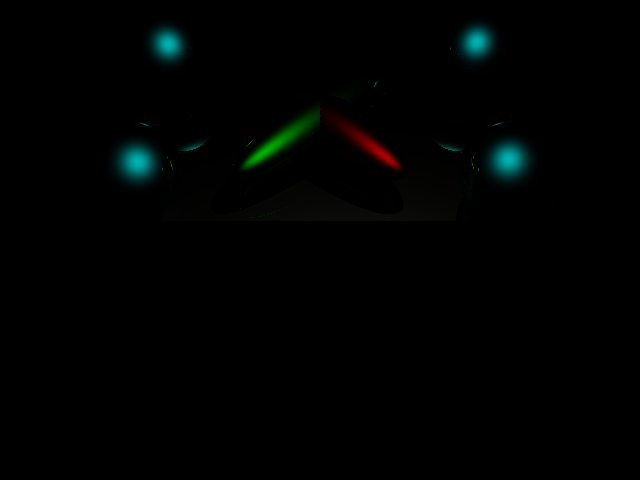
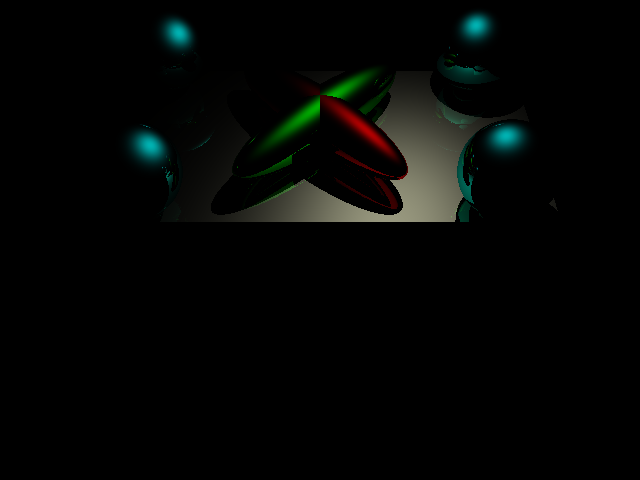
almost fixed reflections/specular stuff, but not really

Changed region(s): [[0.3438, 0.0312, 0.8438, 0.4688], [0.1562, 0.25, 0.3125, 0.4062], [0.2188, 0.0312, 0.3125, 0.1562]]

diff --git a/RayTracer.cpp b/RayTracer.cpp
@@ -50,7 +50,7 @@ void RayTracer::trace(Ray r, int lvl, Color& outputColor){
     //vec3 reflectedDir = 2*glm::dot(norm, glm::normalize(r.getDir())) * norm;
     //reflectedDir = glm::normalize(r.getDir() - reflectedDir);
 
-    vec3 reflectedDir = glm::reflect(glm::normalize(r.getDir()), glm::normalize(norm));
+    vec3 reflectedDir = glm::normalize(glm::reflect(glm::normalize(r.getDir()), glm::normalize(norm)));
 
 //cout << "magic5" << endl;
 
@@ -85,7 +85,8 @@ void RayTracer::trace(Ray r, int lvl, Color& outputColor){
     result += currShape->getEmission().getColors() + currShape->getAmbient().getColors();
 
     Ray reflect = Ray();
-    vec3 offsetInters = intersect.getPosition().getPoint() + 0.0001f * reflectedDir;
+    //cout << intersect.getPosition().getPoint().y << intersect.getPosition().getPoint().y << intersect.getPosition().getPoint().z << endl << endl;
+    vec3 offsetInters = intersect.getPosition().getPoint() + 0.001f * reflectedDir;
     reflect.setPoint(Point(offsetInters));
     reflect.setDir(Direction(reflectedDir));
     Color reflectedCol = Color(0, 0, 0);

diff --git a/Sphere.h b/Sphere.h
@@ -74,6 +74,8 @@ class Sphere : public Shape{
 
     vec3 intersectPoint = transfRay.getPos() + t*transfRay.getDir();
 
+    //std::cout << "obj space intersection: " << intersectPoint.x << intersectPoint.y << intersectPoint.z << std::endl;
+
     vec3 normal = glm::normalize(intersectPoint - centerPoint);
 
     //std::cout << "norm " << normal.x << normal.y << normal.z << std::endl;
@@ -86,6 +88,8 @@ class Sphere : public Shape{
     intersectPoint = vec3(matrix * vec4(intersectPoint, 1.0));
 
     float worldt = (intersectPoint - r.getPos()).x / r.getDir().x;
+
+    //std::cout << "world space intersection: " << intersectPoint.x << intersectPoint.y << intersectPoint.z << std::endl;
     
    
     // if INTERSECTPOINT is within triangle, then these cross products should

diff --git a/Shape.cpp b/Shape.cpp
@@ -38,9 +38,9 @@ void Shape::intersectColor(Intersect intersection, Light* currLight, vec3 cam, v
 
   vec3 lightDir = currLight->getDirection(intersection.getPosition());
   vec3 viewDir = cam - intersection.getPosition().getPoint();
-  vec3 halfDir = glm::normalize(lightDir + viewDir);
+  vec3 halfDir = glm::normalize(glm::normalize(lightDir) + glm::normalize(viewDir));
 
-  vec3 norm = intersection.getNormal().getDir();
+  vec3 norm = glm::normalize(intersection.getNormal().getDir());
 
   float lambTerm = max(glm::dot(norm, lightDir), 0.0f);
   vec3 diffcontr = currLightColor * lambTerm * diffuse.getColors();

diff --git a/Triangle.h b/Triangle.h
@@ -41,6 +41,8 @@ class Triangle : public Shape{
     if ( (glm::dot(glm::cross(b - a, intersectPoint - a), normal) >= 0.0) &&
 	 (glm::dot(glm::cross(c - b, intersectPoint - b), normal) >= 0.0) &&
 	 (glm::dot(glm::cross(a - c, intersectPoint - c), normal) >= 0.0) ) {
+
+    //cout << "tri tri world intersect: " << intersectPoint.x << intersectPoint.y << intersectPoint.z << endl;
 //cout << "allo" << endl;
       return Intersect(Point(intersectPoint), Direction(normal), (Shape *)this, t);
     } else {

diff --git a/Intersect.h b/Intersect.h
@@ -36,8 +36,8 @@ class Intersect{
     t = 99999.9;
   }
   Intersect(Point pos, Direction norm, Shape *s, float tVal){
-    position = pos;
-    normal = norm;
+    position = Point(pos.x(), pos.y(), pos.z());
+    normal = Direction(norm.x(), norm.y(), norm.z());
     t = tVal;
     shape = s;
     hit = true;

diff --git a/Point.cpp b/Point.cpp
@@ -6,7 +6,7 @@ Point::Point(void)
 }
 
 Point::Point(vec3 pos) {
-  mypoint = pos;
+  mypoint = vec3(pos.x, pos.y, pos.z);
 }
 
 Point::Point(float x, float y, float z) {
